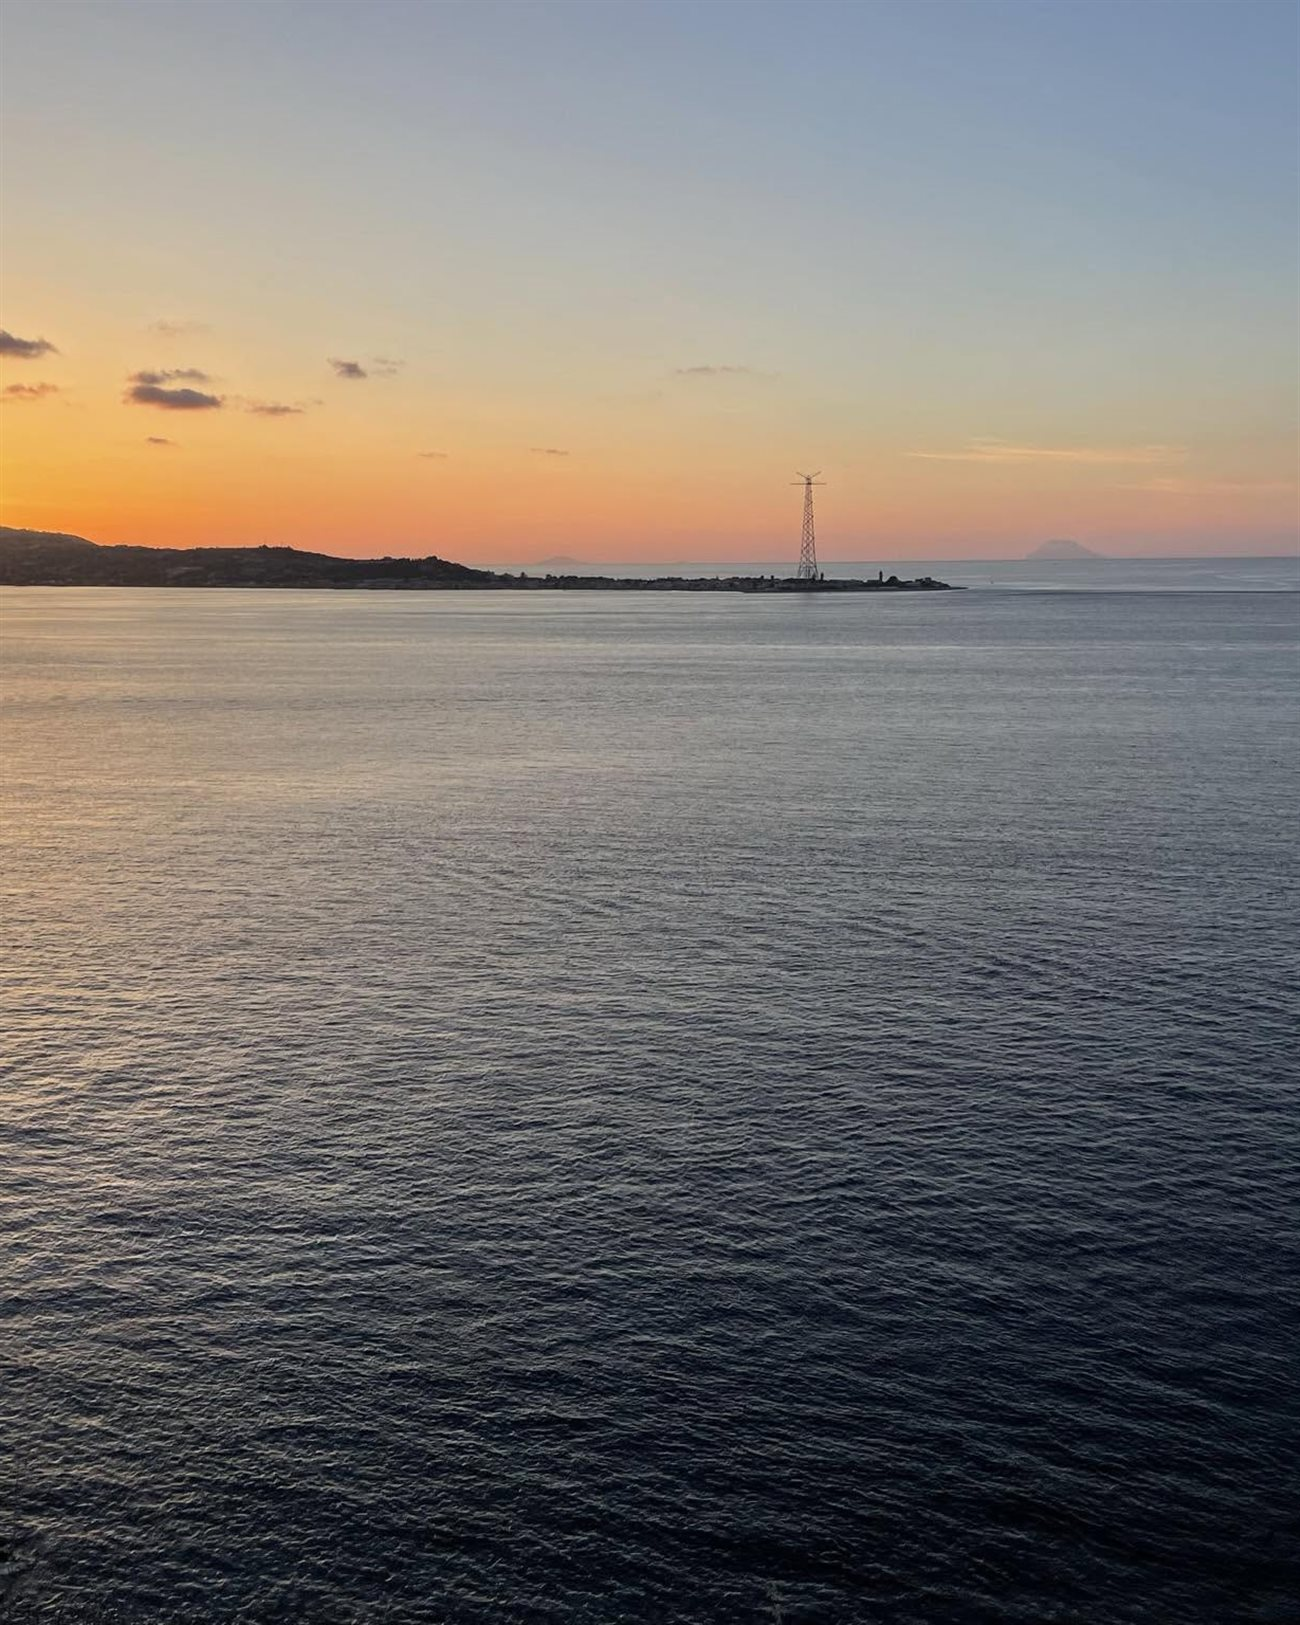
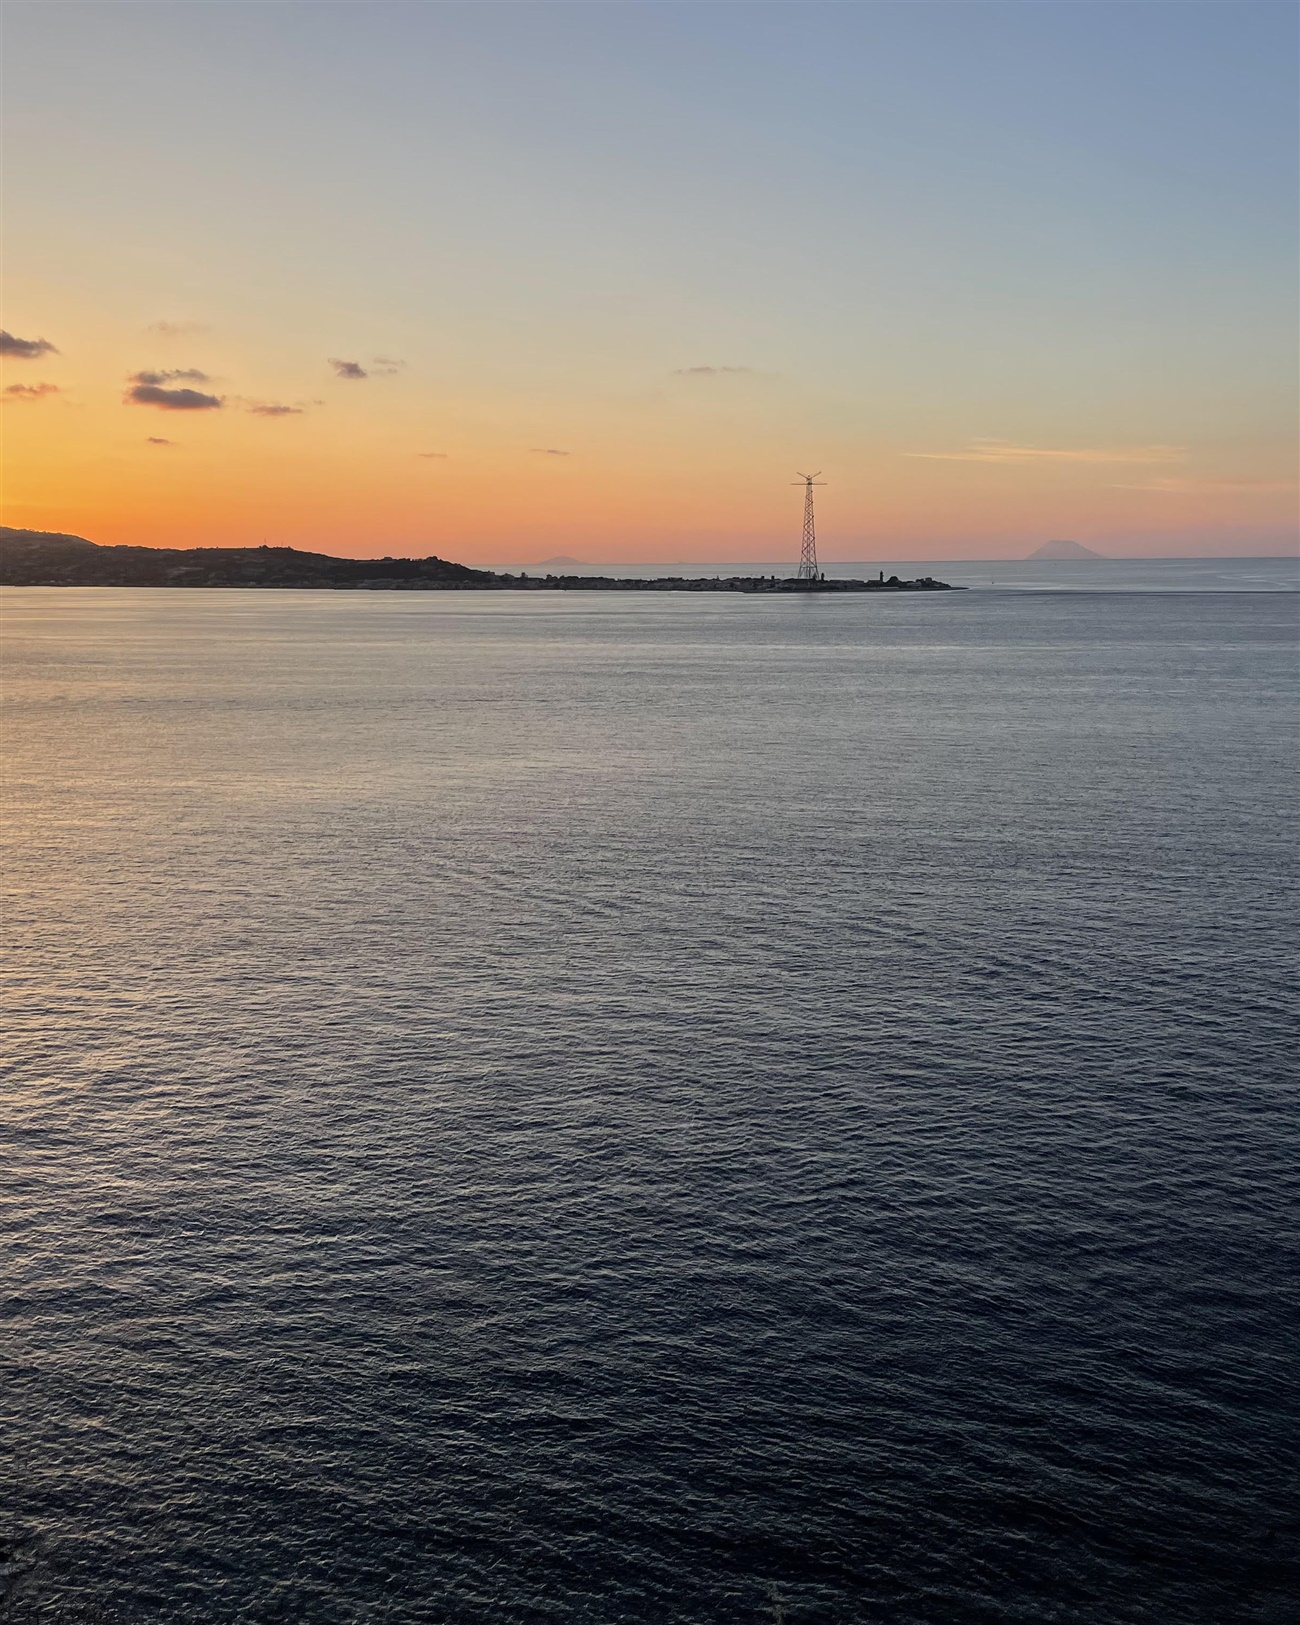
Rende funzionale la RSVP: autocompletamento e Google Sheets
- Aggiunge "MENU" accanto all'icona hamburger per renderla più
  evidente
- Foto: Bronzi di Riace per "Per chi viene da lontano" (con
  inquadratura corretta), tramonto sullo Stretto in alta qualità
  per la copertina (stesso ritaglio di prima), qualità JPEG alzata
  da 85 a 96 sulle immagini elaborate localmente
- Corregge il testo della cerimonia (rimossa la parola "piccola")
- RSVP ristrutturata: rimossi email e "numero di persone", aggiunti
  "Accompagnatore adulto" (testo libero) e "Bambini under 10"
  (numero); il campo nome ha l'autocompletamento con l'elenco
  invitati, caricato dinamicamente da un foglio Google così può
  essere aggiornato autonomamente
- Ogni risposta al form viene inviata sia a Netlify sia a un foglio
  Google (tramite Apps Script) per la raccolta centralizzata dei
  dati

diff --git a/script.js b/script.js
@@ -50,7 +50,94 @@ const observer = new IntersectionObserver((entries) => {
 
 revealTargets.forEach(el => observer.observe(el));
 
-// ---------- RSVP form (Netlify AJAX submit) ----------
+// ---------- RSVP: URL dello script Google (risposte + elenco invitati) ----------
+const GOOGLE_SHEETS_URL = 'https://script.google.com/macros/s/AKfycbw-GteY9jQIOVU2_gDypUOOVREa4jHeq9TFX-0uaG4xP2fXoNrML2QmB1qIxPSLKIze/exec';
+
+// ---------- RSVP: autocompletamento nome invitato (elenco caricato dal foglio Google) ----------
+const nomeInput = document.getElementById('nome');
+const nomeList = document.getElementById('nomeList');
+
+const DIACRITICS_RE = new RegExp('[' + String.fromCharCode(0x0300) + '-' + String.fromCharCode(0x036f) + ']', 'g');
+
+function normalizeText(s){
+  return s.normalize('NFD').replace(DIACRITICS_RE, '').toLowerCase().trim();
+}
+
+if (nomeInput && nomeList){
+  let guestList = [];
+  let activeIndex = -1;
+
+  if (GOOGLE_SHEETS_URL){
+    fetch(GOOGLE_SHEETS_URL)
+      .then(res => res.json())
+      .then(names => { guestList = Array.isArray(names) ? names : []; })
+      .catch(() => { guestList = []; });
+  }
+
+  function renderMatches(matches){
+    nomeList.innerHTML = '';
+    activeIndex = -1;
+    if (matches.length === 0){
+      nomeList.hidden = true;
+      return;
+    }
+    matches.forEach(name => {
+      const li = document.createElement('li');
+      li.textContent = name;
+      li.addEventListener('mousedown', (e) => {
+        e.preventDefault();
+        nomeInput.value = name;
+        nomeList.hidden = true;
+      });
+      nomeList.appendChild(li);
+    });
+    nomeList.hidden = false;
+  }
+
+  nomeInput.addEventListener('input', () => {
+    const query = normalizeText(nomeInput.value);
+    if (query.length === 0 || guestList.length === 0){
+      nomeList.hidden = true;
+      return;
+    }
+    const matches = guestList
+      .filter(name => normalizeText(name).includes(query))
+      .slice(0, 6);
+    renderMatches(matches);
+  });
+
+  nomeInput.addEventListener('keydown', (e) => {
+    const items = Array.from(nomeList.querySelectorAll('li'));
+    if (nomeList.hidden || items.length === 0) return;
+
+    if (e.key === 'ArrowDown'){
+      e.preventDefault();
+      activeIndex = (activeIndex + 1) % items.length;
+    } else if (e.key === 'ArrowUp'){
+      e.preventDefault();
+      activeIndex = (activeIndex - 1 + items.length) % items.length;
+    } else if (e.key === 'Enter'){
+      if (activeIndex >= 0){
+        e.preventDefault();
+        nomeInput.value = items[activeIndex].textContent;
+        nomeList.hidden = true;
+      }
+      return;
+    } else if (e.key === 'Escape'){
+      nomeList.hidden = true;
+      return;
+    } else {
+      return;
+    }
+    items.forEach((li, i) => li.classList.toggle('is-active', i === activeIndex));
+  });
+
+  nomeInput.addEventListener('blur', () => {
+    nomeList.hidden = true;
+  });
+}
+
+// ---------- RSVP form (invio a Netlify e Google Sheets) ----------
 const rsvpForm = document.getElementById('rsvpForm');
 const rsvpThanks = document.getElementById('rsvpThanks');
 
@@ -66,6 +153,15 @@ if (rsvpForm){
     const formData = new FormData(rsvpForm);
     const payload = {};
     formData.forEach((value, key) => { payload[key] = value; });
+
+    if (GOOGLE_SHEETS_URL){
+      fetch(GOOGLE_SHEETS_URL, {
+        method: 'POST',
+        mode: 'no-cors',
+        headers: { 'Content-Type': 'application/x-www-form-urlencoded' },
+        body: encodeForm(payload)
+      }).catch(() => {});
+    }
 
     fetch('/', {
       method: 'POST',

diff --git a/alloggio.html b/alloggio.html
@@ -15,7 +15,8 @@
 <header class="topbar">
   <a href="index.html" class="mark"><img src="images/mark.png" alt="Lavinia &amp; Filippo"></a>
   <button class="menu-toggle" id="menuToggle" aria-label="Apri il menu" aria-expanded="false" aria-controls="menuOverlay">
-    <span></span><span></span><span></span>
+    <span class="menu-toggle__label">Menu</span>
+    <span class="menu-toggle__bars"><span></span><span></span><span></span></span>
   </button>
 </header>
 
@@ -36,21 +37,30 @@
     <div class="page__cover">
       <h2 class="page__title">Per chi viene da lontano</h2>
       <div class="page__media">
-        <img src="images/alloggio.jpg" alt="" loading="eager">
+        <img src="images/alloggio.jpg" alt="" loading="eager" style="object-position:68% 15%;">
       </div>
-      <p class="page__caption">Gli alberi secolari di Via Marina.</p>
+      <p class="page__caption">I Bronzi di Riace.</p>
       <div class="scroll-cue" aria-hidden="true"><svg viewBox="0 0 24 24"><path d="M6 9l6 6 6-6"/></svg></div>
     </div>
-    <p class="page__lead">Il nostro modo di ringraziarvi per il viaggio.</p>
+    <p class="page__lead">Il nostro modo di ringraziarvi per aver scelto di raggiungerci e condividere con noi questo giorno.</p>
 
     <div class="info-block">
       <p class="info-block__label">DOVE DORMIRE</p>
-      <p class="page__body"><strong>Hotel Torrione</strong>, nel centro storico di Reggio Calabria, a pochi passi dal Castello Aragonese — Via del Torrione 67.</p>
+      <p class="page__body">
+        Per il vostro soggiorno abbiamo scelto l'<strong>Hotel Torrione</strong>,
+        nel cuore del centro storico di Reggio Calabria, a pochi passi dal
+        Castello Aragonese.<br>
+        Via del Torrione, 67.
+      </p>
       <a class="link-under" href="https://www.google.com/maps/search/?api=1&query=Hotel+Torrione+Via+del+Torrione+67+Reggio+Calabria" target="_blank" rel="noopener">Apri su Google Maps</a>
     </div>
     <div class="info-block">
       <p class="info-block__label">TRANSFER</p>
-      <p class="page__body">Un autista vi attenderà fuori dall'Hotel Torrione per accompagnarvi alla Chiesa di Santa Maria di Porto Salvo. Dopo la cerimonia, vi accompagnerà in sala.</p>
+      <p class="page__body">
+        Abbiamo pensato anche ai vostri spostamenti: un transfer vi
+        attenderà all'esterno dell'Hotel Torrione per accompagnarvi alla
+        cerimonia e, al termine, alla location del ricevimento.
+      </p>
     </div>
     <hr class="rule">
   </section>

diff --git a/rsvp.html b/rsvp.html
@@ -15,7 +15,8 @@
 <header class="topbar">
   <a href="index.html" class="mark"><img src="images/mark.png" alt="Lavinia &amp; Filippo"></a>
   <button class="menu-toggle" id="menuToggle" aria-label="Apri il menu" aria-expanded="false" aria-controls="menuOverlay">
-    <span></span><span></span><span></span>
+    <span class="menu-toggle__label">Menu</span>
+    <span class="menu-toggle__bars"><span></span><span></span><span></span></span>
   </button>
 </header>
 
@@ -40,14 +41,10 @@
       <input type="hidden" name="form-name" value="rsvp">
       <p class="hidden-field"><label>Non compilare questo campo: <input name="bot-field"></label></p>
 
-      <div class="field">
+      <div class="field field--autocomplete">
         <label for="nome">Nome e cognome</label>
-        <input type="text" id="nome" name="nome" required>
-      </div>
-
-      <div class="field">
-        <label for="email">Email</label>
-        <input type="email" id="email" name="email" required>
+        <input type="text" id="nome" name="nome" autocomplete="off" required>
+        <ul class="autocomplete-list" id="nomeList" hidden></ul>
       </div>
 
       <div class="field field--radio">
@@ -59,8 +56,13 @@
       </div>
 
       <div class="field">
-        <label for="ospiti">Numero di persone (te incluso/a)</label>
-        <input type="number" id="ospiti" name="ospiti" min="1" max="10" value="1">
+        <label for="accompagnatore">Accompagnatore adulto (facoltativo)</label>
+        <input type="text" id="accompagnatore" name="accompagnatore" placeholder="Nome e cognome">
+      </div>
+
+      <div class="field">
+        <label for="bambini">Bambini under 10 anni</label>
+        <input type="number" id="bambini" name="bambini" min="0" max="10" value="0">
       </div>
 
       <div class="field">

diff --git a/styles.css b/styles.css
@@ -61,11 +61,21 @@ a{ color:inherit; }
   display:block;
 }
 .menu-toggle{
-  display:flex; flex-direction:column; gap:6px;
+  display:flex; flex-direction:row; align-items:center; gap:0.65rem;
   background:none; border:none; cursor:pointer; padding:0.5rem;
 }
-.menu-toggle span{
-  width:26px; height:1.5px; background:var(--ink);
+.menu-toggle__label{
+  font-family:var(--body);
+  font-size:0.82rem;
+  letter-spacing:0.1em;
+  text-transform:uppercase;
+  color:var(--green);
+}
+.menu-toggle__bars{
+  display:flex; flex-direction:column; gap:6px;
+}
+.menu-toggle__bars span{
+  width:22px; height:1.5px; background:var(--green);
 }
 
 /* ---------- Fullscreen menu overlay ---------- */
@@ -342,6 +352,32 @@ a.info-block__label:hover{ text-decoration:underline; }
 }
 .radio-group{ display:flex; gap:1.6rem; }
 .radio-group label{ display:flex; align-items:center; gap:0.4rem; font-size:0.95rem; color:var(--ink); }
+
+.field--autocomplete{ position:relative; }
+.autocomplete-list{
+  list-style:none;
+  margin:0.2rem 0 0;
+  padding:0.3rem 0;
+  position:absolute;
+  left:0; right:0; top:100%;
+  background:var(--paper);
+  border:1px solid var(--line);
+  max-height:14rem;
+  overflow-y:auto;
+  z-index:5;
+  box-shadow:0 8px 20px rgba(20,20,18,0.08);
+}
+.autocomplete-list li{
+  padding:0.6rem 0.8rem;
+  font-family:var(--body);
+  font-size:0.95rem;
+  color:var(--ink);
+  cursor:pointer;
+}
+.autocomplete-list li:hover,
+.autocomplete-list li.is-active{
+  background:var(--line);
+}
 
 .btn{
   font-family:var(--body);

diff --git a/10-luglio.html b/10-luglio.html
@@ -15,7 +15,8 @@
 <header class="topbar">
   <a href="index.html" class="mark"><img src="images/mark.png" alt="Lavinia &amp; Filippo"></a>
   <button class="menu-toggle" id="menuToggle" aria-label="Apri il menu" aria-expanded="false" aria-controls="menuOverlay">
-    <span></span><span></span><span></span>
+    <span class="menu-toggle__label">Menu</span>
+    <span class="menu-toggle__bars"><span></span><span></span><span></span></span>
   </button>
 </header>
 
@@ -45,7 +46,7 @@
     <p class="page__place">CHIESA DI SANTA MARIA DI PORTO SALVO</p>
     <p class="page__address">Piazza Chiesa, Cannitello — Villa San Giovanni (RC)</p>
     <p class="page__body">
-      Il sacramento del matrimonio verrà celebrato nella piccola chiesa
+      Il sacramento del matrimonio verrà celebrato nella chiesa
       di Cannitello, affacciata sullo Stretto.
     </p>
     <a class="link-under" href="https://www.google.com/maps/search/?api=1&query=38.2340851,15.6487798" target="_blank" rel="noopener">Apri su Google Maps</a>

diff --git a/il-mito-e-il-simbolo.html b/il-mito-e-il-simbolo.html
@@ -15,7 +15,8 @@
 <header class="topbar">
   <a href="index.html" class="mark"><img src="images/mark.png" alt="Lavinia &amp; Filippo"></a>
   <button class="menu-toggle" id="menuToggle" aria-label="Apri il menu" aria-expanded="false" aria-controls="menuOverlay">
-    <span></span><span></span><span></span>
+    <span class="menu-toggle__label">Menu</span>
+    <span class="menu-toggle__bars"><span></span><span></span><span></span></span>
   </button>
 </header>
 

diff --git a/index.html b/index.html
@@ -15,7 +15,8 @@
 <header class="topbar">
   <a href="index.html" class="mark"><img src="images/mark.png" alt="Lavinia &amp; Filippo"></a>
   <button class="menu-toggle" id="menuToggle" aria-label="Apri il menu" aria-expanded="false" aria-controls="menuOverlay">
-    <span></span><span></span><span></span>
+    <span class="menu-toggle__label">Menu</span>
+    <span class="menu-toggle__bars"><span></span><span></span><span></span></span>
   </button>
 </header>
 
